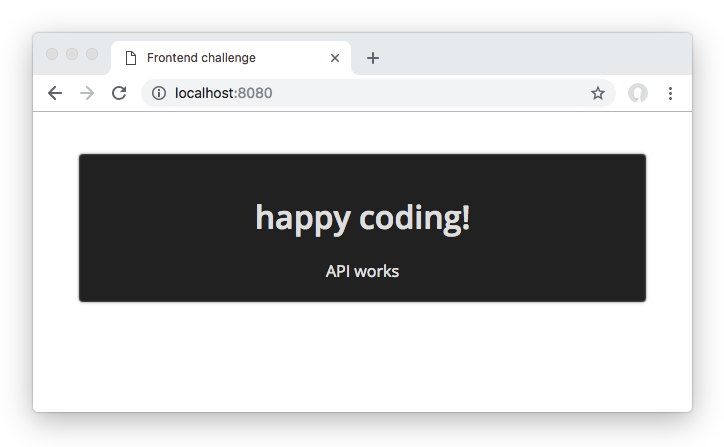
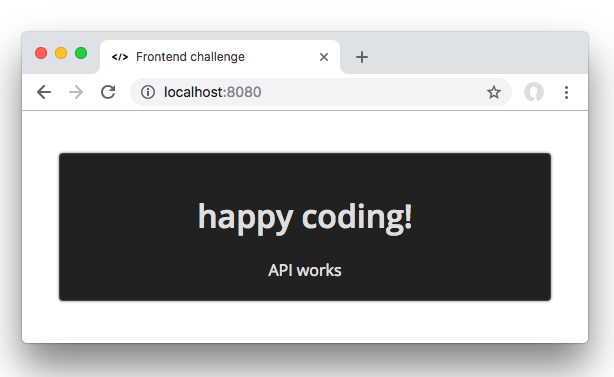
update image

diff --git a/README.md b/README.md
@@ -16,7 +16,7 @@ Folow the preparation carefully. Do this before the challenge timeframe, so we c
 4. Run `npm start`
 5. This will bring up a simple dev server and an API
 
-You're all set, if your browser looks like this  
+You're all set, if your browser looks like this:  
 ![browser.png](docs/browser.png)
 
 ## Work
